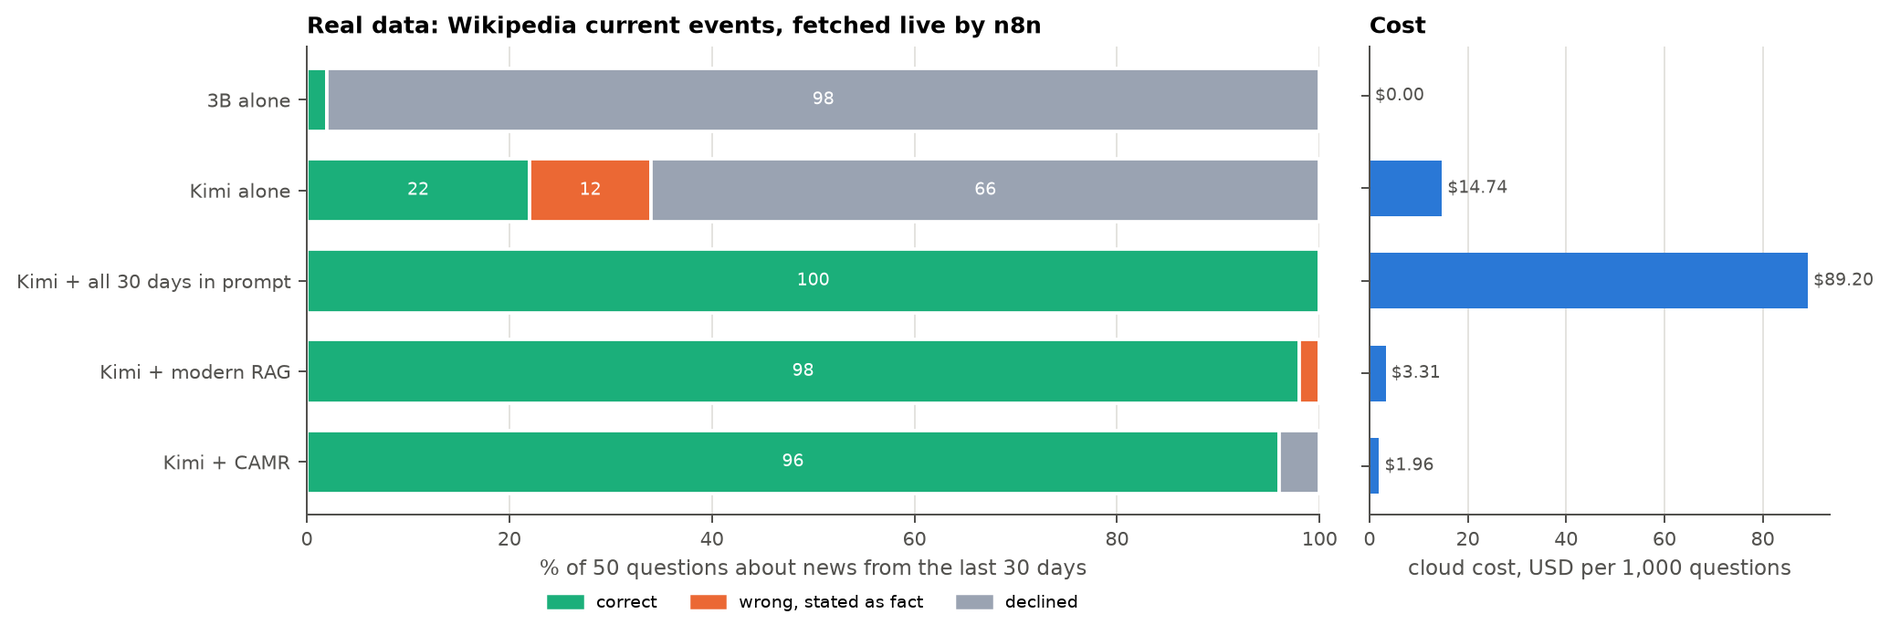
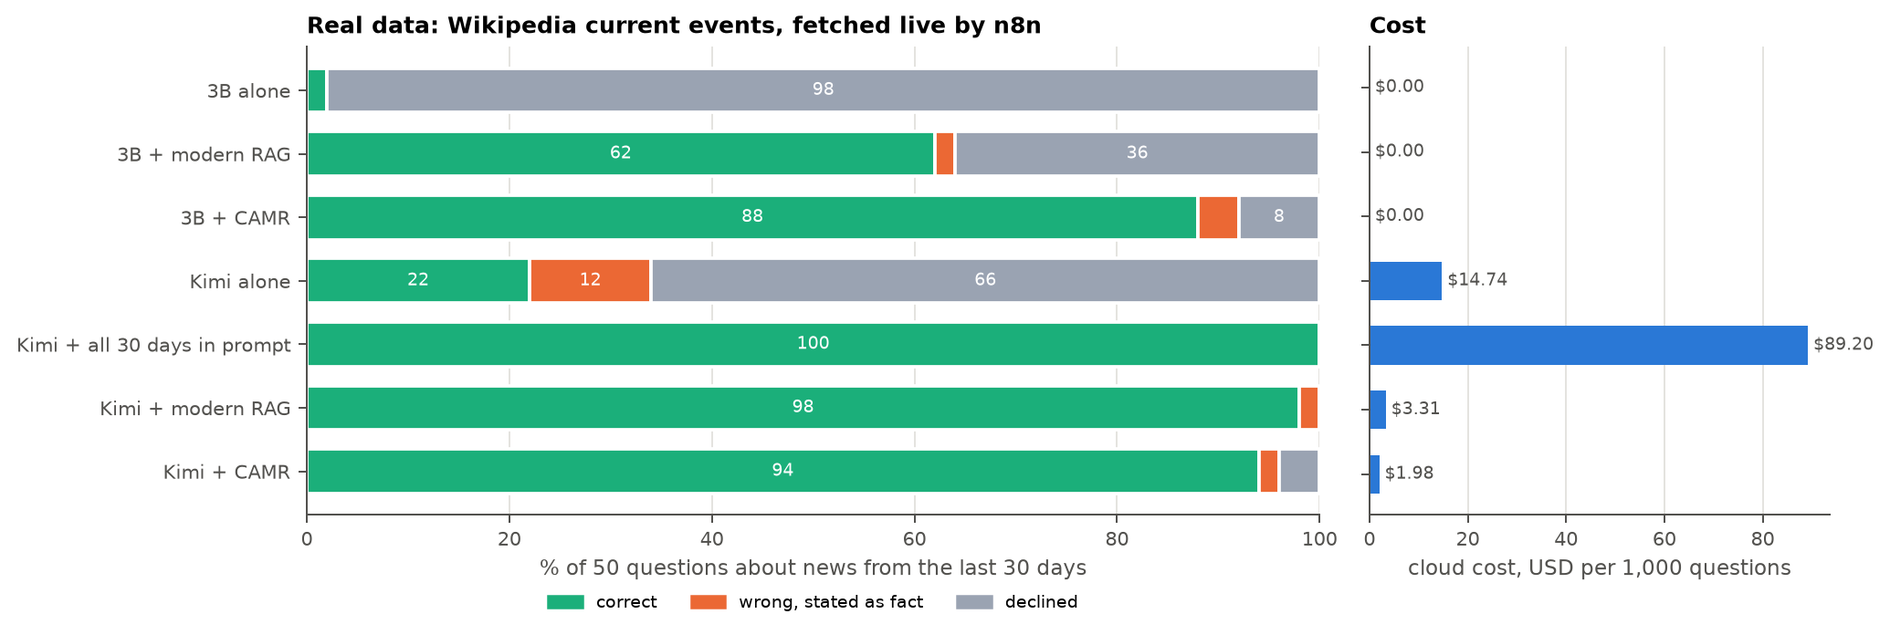
Chapter 5: n8n screenshots with captions read from the runs, compact input/output panels for print (scripts/agentic/n8n_screens.py); news and desk narratives updated (3B rows, D-39, D-40, the two-answer news question); size tables fixed

diff --git a/scripts/build_ch5.py b/scripts/build_ch5.py
@@ -12,6 +12,7 @@ from __future__ import annotations
 import argparse
 import importlib.util
 import json
+import re
 import statistics
 from pathlib import Path
 
@@ -112,6 +113,54 @@ def heldout_readers() -> list[tuple[str, dict, dict]]:
         v = a["variants"]["facts+compress+reader"]
         rows.append((name, j, v))
     return rows
+
+
+def _row(prefix: str, tag: str, key: str, item: str) -> dict:
+    d = J(f"results/agentic/{prefix}_{tag}.json") or {}
+    rows = d.get("per_ticket") or d.get("per_question") or d.get("per_task") or []
+    return next((r for r in rows if r.get("ticket", r.get("id", r.get("task"))) == item), {})
+
+
+def n8n_shots() -> list[tuple[str, str]]:
+    """The n8n screenshots (docs/figures/n8n) with captions whose numbers come from the same runs' result files."""
+    desk = (J("results/agentic/helio_camr_kimi-k3.json") or {}).get("per_ticket", [])
+    acts = [r.get("action") for r in desk]
+    t20 = _row("helio", "camr_kimi-k3", "ticket", "T020")
+    agent = (J("results/agentic/agent_kimi-k3__camr.json") or {}).get("summary", {})
+    fa, fc = _row("fresh", "llm_kimi-k3", "id", "F012"), _row("fresh", "camr_kimi-k3", "id", "F012")
+    fs = (J("results/agentic/fresh_camr_kimi-k3.json") or {}).get("summary", {})
+    n_tasks = agent.get("tasks", 20)
+    handed = round(agent.get("escalated", 0) * n_tasks)
+
+    def secs(r):
+        return f"{(r.get('model_ms') or 0) / 1000:.1f} s"
+
+    return [
+        ("desk_canvas.png", f"A support-desk run in n8n (Kimi K3 + CAMR): {len(desk)} tickets answered, "
+         f"{acts.count('reply')} replies sent, {acts.count('escalate')} escalated, with the resolutions a person gave "
+         "taught back and 3 policy changes applied; each link shows how many items passed (screenshot)"),
+        ("desk_t013_escalated.png", "Inside that run, day 2, ticket T013 *How much is the bird mesh kit?*: nothing in "
+         "memory, so the answer is not stated (`stated: false`) and the ticket goes to a person; the input (left) "
+         "carries the resolution the person gives, which the workflow then teaches (screenshot)"),
+        ("desk_t020_answered.png", f"Day 3, ticket T020 *Price of the Helio bird mesh kit please*: answered "
+         f"*{t20.get('answer', '')}* from the taught resolution, with the evidence sentence and its source; one model "
+         f"call, {usd(t20.get('cost_usd'), 4)} (screenshot)"),
+        ("fresh_canvas.png", f"A current-events run in n8n (Kimi K3 + CAMR): {fs.get('pages_live', 30)} pages "
+         f"fetched live from Wikipedia and taught ({fs.get('items_taught', 0)} items), {fs.get('questions', 50)} "
+         "questions answered, one score (screenshot)"),
+        ("fresh_fetch.png", "The fetch node's output: the raw wikitext of one day's *Current events* page as fetched "
+         "live (the node retries once and continues on error, D-36) (screenshot)"),
+        ("fresh_answer_alone.png", f"Question F012 to Kimi K3 alone: a confident answer from its training data that "
+         f"is wrong for this news (*2M0437b*); {secs(fa)} of model time, {usd(fa.get('cost_usd'), 4)} (screenshot)"),
+        ("fresh_answer.png", f"The same question to Kimi K3 + CAMR: *{fc.get('answer', '')}*, with the news item it "
+         f"came from as evidence; {secs(fc)}, {usd(fc.get('cost_usd'), 4)} (screenshot)"),
+        ("agent_canvas.png", f"An operations-agent run in n8n (Kimi K3 + CAMR): {n_tasks} tasks, "
+         f"{n_tasks - handed} completed by the agent, {handed} handed to a person (screenshot)"),
+        ("agent_a20_alone.png", "Task A20 (*20 HS-400 panels on a single Volta-2 inverter?*) given to Kimi K3 without "
+         "memory: escalated, *cannot answer without inventing facts* (screenshot)"),
+        ("agent_a20_camr.png", "The same task with CAMR: the agent searches memory, reads that a Volta-2 inverter "
+         "takes at most 18 panels, and replies with the limit and two options (screenshot)"),
+    ]
 
 
 def speed() -> dict:
@@ -629,16 +678,11 @@ def implementation(c: Chapter) -> None:
         "agent** workflow hands each of 20 tasks to an agent and records whether it completed it or handed it to a "
         "person.")
     c.figure(DIAGRAMS / "n8n_desk.png", "Support-desk workflow as built in n8n (node names as in the workflow file)")
-    for name, cap in (("desk_canvas.png", "The support-desk workflow in the n8n editor (screenshot)"),
-                      ("desk_execution.png", "Execution 21 of the support-desk workflow (Kimi K3 + CAMR) in n8n: 60 "
-                       "tickets answered, 45 replies sent, 15 escalated, 6 resolutions taught, 3 policy changes "
-                       "(screenshot)"),
-                      ("fresh_canvas.png", "The current-events workflow in the n8n editor: live Wikipedia fetch with "
-                       "retries, teach each page, answer each question (screenshot)"),
-                      ("agent_canvas.png", "Execution 17 of the operations-agent workflow (Kimi K3 + CAMR): 20 tasks, "
-                       "17 completed by the agent, 3 handed to a person (screenshot)")):
-        if (FIG / "n8n" / name).exists():
-            c.figure(FIG / "n8n" / name, cap, 15.0)
+    for name, cap in n8n_shots():
+        # detail views: the input and output panels side by side (scripts/agentic/n8n_screens.py crop)
+        path = next((q for q in (FIG / "n8n" / "panels" / name, FIG / "n8n" / name) if q.exists()), None)
+        if path:
+            c.figure(path, re.sub(r"\*([^*]+)\*", "\u201c\\1\u201d", cap).replace("`", ""), 15.8)
     c.p(f"The agent ({c.next_fig()}) is a tool-using loop in the ReAct style: each turn the model writes one line, "
         "*ACTION <tool> <json>* or *DONE*; the tool runs and its result is appended. Its tools are `search_memory` "
         "(absent without memory), `calculate`, `create_invoice`, `reply` and `escalate`. A task succeeds only when "
@@ -875,6 +919,15 @@ def testing(c: Chapter) -> None:
         ["D-36", "After repeated runs Wikimedia refused the workflow's live page fetches (HTTP 403), and the news "
          "workflow stopped", "The fetch node continues on error; the gateway then uses the page as cached when the "
          "questions were written, and records which pages came live", "Pass; re-run"],
+        ["D-39", "In the news workflow a loop's *done* output fed all 30 looped pages to the next node, which n8n runs "
+         "once per item: each question was asked 30 times and 1,500 score requests reset the gateway's connection, "
+         "so n8n marked the runs as failed", "The nodes after a loop run once (*Execute Once*)", "Found in the "
+         "screenshots; scores and costs unchanged (answers per question, repeats were cache hits); re-run clean"],
+        ["D-40", "The D-37 opener rule applied only to sentences ending in *?*, so the desk request *Price of the "
+         "Helio bird mesh kit please* read *Price of the Helio* as a name and the ticket was escalated", "Requests "
+         "(*please*) and fragments without a full stop also open with a common word; the test uses the ticket as "
+         "written", "Found by re-running the desk on the final code; every CAMR desk answer identical to the reported "
+         "run; PopQA and formula extraction unchanged"],
     ]
     c.table("Defects found and retests", ["ID", "Defect", "Correction", "Retest"], defects,
             [1.7, 7.4, 4.3, 2.5], size=8.5)
@@ -1255,8 +1308,9 @@ def res_models(c: Chapter) -> None:
         "task types; the held-out re-test swapped the reader inside the verified pipeline, keeping everything else "
         f"fixed. The sweep covers {len(sw)} models from {sw[0]['params']:.2f}B to {sw[-1]['params']:.1f}B parameters, "
         f"every one on the same store and the same questions. {c.next_tab()} lists all of them, smallest first, and "
-        f"{c.next_tab()} sums them up by size class."
-        + (f" No {', '.join(miss)} model was in the sweep; the size classes cover those sizes by their neighbours."
+        f"{c.next_tab(2)} sums them up by size class."
+        + (f" No {' or '.join(miss) if len(miss) < 3 else ', '.join(miss[:-1]) + ' or ' + miss[-1]} model was in "
+           "the sweep; the size classes cover those sizes by their neighbours."
            if miss else ""))
     rows = []
     for r in sw:
@@ -1278,7 +1332,7 @@ def res_models(c: Chapter) -> None:
     c.table(f"All {len(sw)} models of the size sweep: accuracy alone → with CAMR (bold: at or above Kimi K3), decode "
             "speed with CAMR and seconds per answer with CAMR (`results/pilot/tables/model_sweep.json`; F10, F10b)",
             ["Model (parameters, quantisation)", "Long-tail facts (30 q)", "Multi-hop (30 q)", "Arithmetic (12 q)",
-             "Decode tok/s", "s / answer", "Machine"], rows, [4.3, 2.3, 2.3, 2.3, 1.3, 1.3, 1.3], size=8)
+             "Decode tok/s", "s / answer", "Machine"], rows, [4.0, 2.3, 2.3, 2.3, 1.3, 1.3, 1.6], size=8)
     fast = ", ".join(sorted({r["machine"] for r in sw} - {"C"}))
     c.p(f"Machine is the 4-core cloud machine the model ran on ({fast}: Xeon at 2.1 GHz; C: Xeon at 2.8 GHz). "
         "Accuracy is comparable across machines, speed only within one. One question is 3.3 points on the facts and "
@@ -1286,7 +1340,7 @@ def res_models(c: Chapter) -> None:
         "† One to three questions of that run failed with a runtime error; accuracy is over the answered ones (F10).")
     c.table("The sweep by size class: mean accuracy alone → with CAMR, models at Kimi K3's level, and time per answer",
             ["Size class", "Models", "Facts", "Multi-hop", "At Kimi on multi-hop", "Arithmetic helped / hurt",
-             "s / answer (median, 2.1 GHz)"], size_bands(sw, kimi), [2.0, 1.2, 2.4, 2.4, 2.2, 2.4, 2.0], size=8)
+             "s / answer (median, 2.1 GHz)"], size_bands(sw, kimi), [1.9, 1.5, 2.4, 2.4, 2.1, 2.3, 2.0], size=8)
     c.figure(REPORT / "model_sizes.png", "Every model of the sweep by name and size: accuracy alone (grey) and with "
              "CAMR (blue helps, orange hurts) on three task types, and time per answer", 16.0)
     c.p(SIZES_TEXT(sw, kimi))
@@ -1541,13 +1595,13 @@ def res_flaws(c: Chapter) -> None:
          "done for them", "Open; the grounding check flags most copied answers"],
         ["Fine-tuning wins on the trained wording", "LoRA 88.3% against memory 50.0% held-out on formulas", "Memory "
          "is weaker on exactly the trained format", "Reported; LoRA lost GSM8K (13.3% → 0%) and derived problems"],
-        ["Entity gate is rule-based", "D-15, D-31, D-32, D-37: possessives, instructions, terse phrasing and abbreviations; "
+        ["Entity gate is rule-based", "D-15, D-31, D-32, D-37, D-40: possessives, instructions, terse phrasing, abbreviations and requests; "
          "HotpotQA −1.2 points", "Wrongly withheld notes", "Fixed cases; a learned recogniser is future work"],
         ["Run-to-run variation of the 0.5B runtime", "Answers differed on 10 of 30 questions between identical runs "
          "(wrong → wrong)", "Small-model floors vary by a few points", "Open (runtime); engine prompts are identical"],
         ["Evaluation defects in the automations", "D-34: the news workflow used the support persona; D-35: a decline "
          "phrased *I can't identify* was sent as a reply; D-36: Wikimedia refused repeated live fetches; D-38: a curly "
-         "apostrophe hid declines",
+         "apostrophe hid declines; D-39: a loop asked each news question 30 times",
          "Baselines would have been scored unfairly; a workflow stopped", "Fixed and every affected run repeated "
          "before reporting"],
     ]
@@ -1764,8 +1818,12 @@ def DESK_TEXT(desk) -> str:  # noqa: N802
     text = ("**What the desk shows.** A model alone is useless here and dangerous when small. Kimi K3 knew nothing "
             f"about Helio and escalated {p1(lm['escalated'])} of tickets, but it still told two customers to clean their "
             "panels *once or twice a year*, a plausible answer that is not the company's (every 6 months). The 0.5B "
-            f"model alone answered almost everything, and {p1(s.get('llm_qwen2_5_0_5b', {}).get('wrong_replies'))} of "
-            "its replies were wrong. Given the company's documents, all three Kimi systems answered the knowledge-base "
+            f"model alone answered almost everything and sent wrong replies to "
+            f"{p1(s.get('llm_qwen2_5_0_5b', {}).get('wrong_replies'))} of tickets"
+            + (f"; the 3B model alone was no better ({p1(s['llm_llama3_2_3b']['wrong_replies'])} of tickets, fluent and "
+               "invented: *the error code E21 on your Volta-2 indicates a fault in the solar panel's voltage "
+               "regulator*)" if "llm_llama3_2_3b" in s else "")
+            + ". Given the company's documents, all three Kimi systems answered the knowledge-base "
             f"and policy tickets correctly. They differ in what they did when the answer was **not** known: CAMR sent "
             f"{p1(cm['wrong_replies'])} wrong replies, context stuffing {p1(st['wrong_replies'])} and RAG "
             f"{p1(rg['wrong_replies'])}. CAMR resolved every answerable ticket ({p1(cm['answerable_correct'])}) and "
@@ -1831,9 +1889,15 @@ def FRESH_TEXT(fresh) -> str:  # noqa: N802
             f"{p1(lm['correct'])} of questions and stated a wrong answer to {p1(lm['wrong_stated'])}: *four* "
             "journalists arrested where the item says six, *Tropical Storm Fred* where it says Fay, *at least 54* "
             "killed in an airstrike where it says seven. With the workflow teaching each day's page as it arrives, "
-            f"the same model with CAMR was right on {p1(cm['correct'])} and stated nothing wrong "
-            f"({p1(cm['wrong_stated'])}); it declined {p1(cm['declined'])}, two questions whose answers it had read "
-            "but could not confirm.")
+            f"the same model with CAMR was right on {p1(cm['correct'])} and declined {p1(cm['declined'])}, questions "
+            "whose answers it had read but could not confirm. "
+            + (f"Its one answer scored wrong ({p1(cm['wrong_stated'])}) is not an invention: *Which town in North "
+               "Kordofan did the Sudanese Armed Forces announce they had recaptured?* has two true answers in the "
+               "pages (Sodri on 25 September, al-Mazroub on 2 October); the question was written from the first, and "
+               "CAMR gave the second, with its evidence. An earlier run gave Sodri: between the two runs a Wikipedia "
+               "editor changed one item on another day's page, which was enough to change which of the two items "
+               "memory read first. Live data moves results." if cm["wrong_stated"] else
+               f"It stated nothing wrong ({p1(cm['wrong_stated'])})."))
     if "rag_kimi-k3" in s and "stuff_kimi-k3" in s:
         rg, st = s["rag_kimi-k3"], s["stuff_kimi-k3"]
         text += (f" Modern RAG over the same items reached {p1(rg['correct'])} with {p1(rg['wrong_stated'])} wrong; "
@@ -1846,14 +1910,24 @@ def FRESH_TEXT(fresh) -> str:  # noqa: N802
     loc = [(n, s[t]) for t, n in (("llm_llama3_2_3b", "Llama 3B alone"), ("rag_llama3_2_3b", "Llama 3B + RAG"),
                                   ("camr_llama3_2_3b", "Llama 3B + CAMR")) if t in s]
     if loc:
-        text += " On the device: " + "; ".join(f"{n} {p1(x['correct'])} correct, {p1(x['wrong_stated'])} wrong"
-                                              for n, x in loc) + "."
+        rows = {t: {r["id"]: r for r in d["per_question"]} for t, _, d in fresh}
+        declined = [i for i, r in rows.get("rag_llama3_2_3b", {}).items() if r["outcome"] == "declined"]
+        rescued = sum(rows.get("camr_llama3_2_3b", {}).get(i, {}).get("outcome") == "correct" for i in declined)
+        text += (" **On the device** the gap is wider: " + "; ".join(f"{n} {p1(x['correct'])} correct, "
+                                                               f"{p1(x['wrong_stated'])} wrong" for n, x in loc)
+                 + ". With the standard RAG prompt the 3B model hedged (*I don't know the specific number of "
+                 f"journalists ..., but according to the context ...*), and {rescued} of its {len(declined)} declines "
+                 "were answered correctly with CAMR; CAMR's two answers scored wrong are *Tabuk* for *Tabuk, Saudi Arabia* (right, "
+                 "missed by the exact match) and the two-answer question above.")
     pages = [d["summary"].get("pages_live") for _, _, d in fresh if d["summary"].get("pages_live") is not None]
     if pages:
         live = "all 30 pages were" if min(pages) >= 30 else f"at least {min(pages)} of the 30 pages were"
-        text += (f" In the reported runs {live} fetched live by n8n. n8n marked these executions as failed because an "
-                 "HTTP connection was reset, although every question had been answered and scored (50 of 50); the "
-                 "reset was not traced further.")
+        text += (f" In the reported runs {live} fetched live by n8n. The first news runs were marked as failed by "
+                 "n8n: a loop's *done* output carries every item it looped over, so the question list was fetched 30 "
+                 "times, each question was asked 30 times and 1,500 score requests reset the connection (D-39). "
+                 "Answers are kept per question and every repeat was an answer-cache hit, so scores and costs were "
+                 "unaffected; the nodes after a loop now run once, and Kimi K3 alone and with CAMR were repeated on "
+                 "the fixed workflow.")
     return text
 
 

diff --git a/scripts/agentic/n8n_screens.py b/scripts/agentic/n8n_screens.py
@@ -1,0 +1,178 @@
+"""Screenshots of the n8n runs for the report: canvases with item counts, and node detail views (input | parameters |
+output) opened on a chosen run, plus a compact version of each detail view (input and output panels side by side).
+
+The screenshots are taken from a viewer: a second n8n on a consistent copy of the run database, so the runs are not
+disturbed.
+
+    # 1. copy the run database (sqlite backup) into <viewer>/.n8n/database.sqlite, then start the viewer:
+    N8N_USER_FOLDER=<viewer> N8N_PORT=5799 N8N_LISTEN_ADDRESS=127.0.0.1 N8N_RUNNERS_ENABLED=false n8n start
+    # 2. shoot (the viewer's owner account is created on first use):
+    N8N_VIEWER_EMAIL=... N8N_VIEWER_PASSWORD=... python scripts/agentic/n8n_screens.py shoot [name ...]
+    python scripts/agentic/n8n_screens.py crop            # compact panels -> docs/figures/n8n/panels/
+"""
+
+from __future__ import annotations
+
+import argparse
+import json
+import os
+import sqlite3
+from pathlib import Path
+
+ROOT = Path(__file__).resolve().parents[2]
+OUT = ROOT / "docs/figures/n8n"
+DB = os.environ.get("N8N_DB", "/root/.n8n/database.sqlite")  # the run database (the viewer holds a copy)
+BASE = os.environ.get("N8N_VIEWER", "http://127.0.0.1:5799")
+WF = {"desk": "3831c4feb9fc1c5e", "agent_camr": "e5bcd5f80bf76e86", "agent_none": "91f988b69e4bcf91",
+      "fresh": "770885a86cc28674", "fresh_alone": "73c0e8f62a6b754d"}
+# name -> (workflow, node to open (None: the canvas), (json key, value) of the run to show, output view)
+SHOTS = {
+    "desk_canvas": ("desk", None, None, None),
+    "desk_t013_escalated": ("desk", "Answer ticket", ("ticket", "T013"), "JSON"),
+    "desk_t020_answered": ("desk", "Answer ticket", ("ticket", "T020"), "JSON"),
+    "agent_canvas": ("agent_camr", None, None, None),
+    "agent_a20_camr": ("agent_camr", "Run agent on task", ("task", "A20"), "Table"),
+    "agent_a20_alone": ("agent_none", "Run agent on task", ("task", "A20"), "Table"),
+    "fresh_canvas": ("fresh", None, None, None),
+    "fresh_fetch": ("fresh", "Fetch page from Wikipedia", None, "JSON"),
+    "fresh_answer": ("fresh", "Answer question", ("ticket", "F012"), "JSON"),
+    "fresh_answer_alone": ("fresh_alone", "Answer question", ("ticket", "F012"), "JSON"),
+    "executions_list": (None, None, None, None),
+}
+# The input panel does not follow the output's run when the two nodes ran a different number of times: open the
+# parent's run that carried the same item.
+PARENT = {"Answer ticket": ("Policy change?", "id"), "Answer question": ("Loop over questions", "id")}
+
+
+# ----------------------------------------------------------------- run data (n8n stores it as "flatted" JSON)
+
+def run_data(execution_id: int) -> dict:
+    c = sqlite3.connect(f"file:{DB}?mode=ro", uri=True)
+    arr = json.loads(c.execute("SELECT data FROM execution_data WHERE executionId=?", (execution_id,)).fetchone()[0])
+    memo: dict[int, object] = {}
+
+    def val(v):  # every string in flatted is a reference to an entry of the array
+        return node(int(v)) if isinstance(v, str) else v
+
+    def node(i: int):
+        if i in memo:
+            return memo[i]
+        x = arr[i]
+        if isinstance(x, list):
+            memo[i] = out = []
+            out.extend(val(v) for v in x)
+        elif isinstance(x, dict):
+            memo[i] = out = {}
+            out.update({k: val(v) for k, v in x.items()})
+        else:
+            memo[i] = x
+        return memo[i]
+
+    return node(0)["resultData"]["runData"]
+
+
+def items(run: dict) -> list[dict]:
+    main = (run.get("data") or {}).get("main") or []
+    return [it.get("json", {}) for branch in main for it in (branch or [])]
+
+
+def find_run(execution_id: int, node_name: str, key: str, value: str) -> int | None:
+    """0-based index of the node's run that handled the item with json[key] == value."""
+    for k, run in enumerate(run_data(execution_id).get(node_name, [])):
+        if any(str(it.get(key)) == value for it in items(run)):
+            return k
+    return None
+
+
+def latest(workflow_id: str) -> int:
+    c = sqlite3.connect(f"file:{DB}?mode=ro", uri=True)
+    return c.execute("SELECT MAX(id) FROM execution_entity WHERE workflowId=? AND status='success'",
+                     (workflow_id,)).fetchone()[0]
+
+
+# ----------------------------------------------------------------- screenshots
+
+def _pick(page, panel: str, k: int) -> None:
+    page.locator(f"[data-test-id='{panel}'] [data-test-id='run-selector']").click()
+    page.wait_for_timeout(600)
+    page.locator("[data-test-id='run-selection-option']:visible").nth(k).click()
+    page.wait_for_timeout(1200)
+
+
+def shoot(names: list[str]) -> None:
+    from playwright.sync_api import sync_playwright
+
+    email, password = os.environ["N8N_VIEWER_EMAIL"], os.environ["N8N_VIEWER_PASSWORD"]
+    with sync_playwright() as p:
+        b = p.chromium.launch(executable_path=os.environ.get("CHROMIUM", "/opt/pw-browsers/chromium"))
+        ctx = b.new_context(viewport={"width": 1600, "height": 900}, device_scale_factor=2)
+        r = ctx.request.post(BASE + "/rest/owner/setup", data={"email": email, "firstName": "CAMR",
+                                                                "lastName": "Study", "password": password})
+        if r.status >= 400:
+            r = ctx.request.post(BASE + "/rest/login", data={"emailOrLdapLoginId": email, "password": password})
+        page = ctx.new_page()
+        for name in names:
+            wf, node, pick, view = SHOTS[name]
+            ex = latest(WF[wf]) if wf else None
+            page.goto(f"{BASE}/workflow/{WF[wf]}/executions/{ex}" if wf else f"{BASE}/home/executions")
+            page.wait_for_timeout(6000)
+            for _ in range(3):
+                page.keyboard.press("Escape")
+                page.wait_for_timeout(300)
+            if node:
+                page.locator(f"[data-test-id='canvas-node'][data-node-name='{node}']").dblclick()
+                page.wait_for_timeout(2000)
+                if pick:
+                    _pick(page, "output-panel", find_run(ex, node, *pick))
+                if view:
+                    page.locator(f"[data-test-id='output-panel'] [data-test-id='radio-button-{view.lower()}']").click()
+                    page.wait_for_timeout(1000)
+                if pick and node in PARENT:
+                    parent, key = PARENT[node]
+                    page.locator("[data-test-id='ndv-input-panel'] [data-test-id='radio-button-json']").click()
+                    page.wait_for_timeout(800)
+                    k = find_run(ex, parent, key, pick[1])
+                    if k is not None:
+                        _pick(page, "ndv-input-panel", k)
+            page.screenshot(path=str(OUT / f"{name}.png"))
+            print("shot", name, "execution", ex)
+        b.close()
+
+
+# ----------------------------------------------------------------- compact panels for the printed report
+
+def crop(names: list[str]) -> None:
+    """Input and output panels of each detail view side by side, cut below the last line of content (the
+    parameters form in between is the same for every run and unreadable at page width)."""
+    import numpy as np
+    from PIL import Image
+
+    (OUT / "panels").mkdir(exist_ok=True)
+    for name in names:
+        if SHOTS[name][1] is None or not (OUT / f"{name}.png").exists():
+            continue
+        im = Image.open(OUT / f"{name}.png").convert("RGB")
+        s = im.width / 3200  # boxes are for a 1600 x 900 viewport at scale 2
+        bottom_edge = min(im.height, int(1740 * s))  # the dialog ends here; below it is the dimmed page
+        boxes = [tuple(int(v * s) for v in b[:3]) + (bottom_edge,) for b in ((50, 150, 1180), (2022, 150, 3150))]
+        bottom = 0
+        for box in boxes:
+            a = np.asarray(im.crop(box).convert("L"))
+            rows = np.where((a < 200).sum(axis=1) > 2)[0]
+            bottom = max(bottom, int(rows.max()) + 40 if len(rows) else a.shape[0])
+        parts = [im.crop((b[0], b[1], b[2], min(b[1] + bottom, im.height))) for b in boxes]
+        gap = int(24 * s)
+        out = Image.new("RGB", (sum(p.width for p in parts) + gap, max(p.height for p in parts)), (255, 255, 255))
+        out.paste(parts[0], (0, 0))
+        out.paste(parts[1], (parts[0].width + gap, 0))
+        out.save(OUT / "panels" / f"{name}.png", optimize=True)
+        print("panels", name, out.size)
+
+
+if __name__ == "__main__":
+    ap = argparse.ArgumentParser(description=__doc__, formatter_class=argparse.RawDescriptionHelpFormatter)
+    ap.add_argument("cmd", choices=["shoot", "crop"])
+    ap.add_argument("names", nargs="*")
+    a = ap.parse_args()
+    names = a.names or list(SHOTS)
+    shoot(names) if a.cmd == "shoot" else crop(names)

diff --git a/scripts/make_ch5_figures.py b/scripts/make_ch5_figures.py
@@ -273,7 +273,7 @@ def fig_model_sizes(out: Path) -> Path | None:
             "GSM8K. Time: PopQA, mean end to end on a 4-core CPU; light bars ran on a different machine (C), so compare "
             "times within one shade.")
     if missing:
-        note += f" No {', '.join(missing)} model was in the sweep."
+        note += f" No {', '.join(missing[:-1]) + ' or ' + missing[-1] if len(missing) > 1 else missing[0]} model was in the sweep."
     fig.text(0.01, 0.005, note, fontsize=7, color=INK2, wrap=True)
     fig.tight_layout(rect=(0, 0.03, 0.98, 0.97))
     return save(fig, out, "model_sizes.png")
